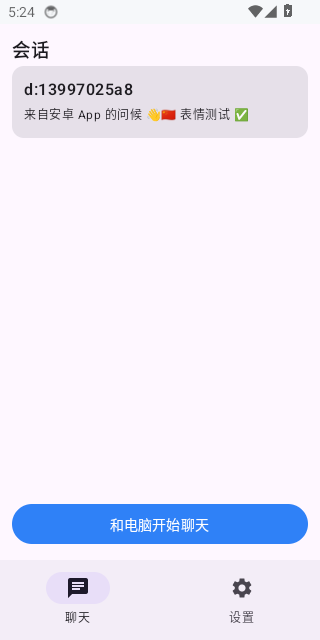
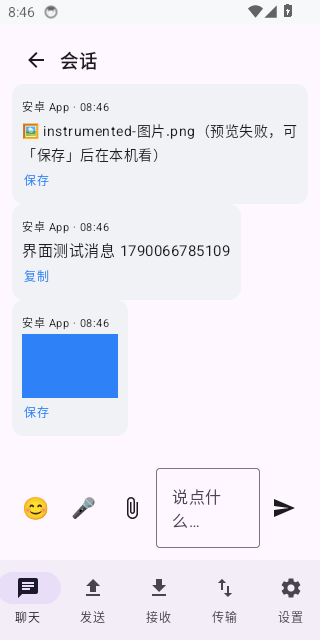
docs: 把这一轮的修复写进 README，并归档 CI 上的真机截图
* 聊天能力表：图片预览（含自己发的）、视频/语音播放、App 的复制与「保存到下载」；
* 发现那一段写清三层（公告、探针回包、定向广播 + 子网单播 + TCP 兜底）及其原因；
* 验证表补上 tests/test_gui_actions.py（19 项真点界面）与安卓 App 的 8 项真机测试；
* 截图换成 CI 自动截的「聊天（图片直接显示）」和「点开看大图」；
* 已知限制补两条：桌面端窗口内不播视频/语音（没有 QtMultimedia）、取消与失败的区别。

diff --git a/android/app/src/androidTest/java/cn/eversend/app/EverSendInstrumentedTest.kt b/android/app/src/androidTest/java/cn/eversend/app/EverSendInstrumentedTest.kt
@@ -63,12 +63,18 @@ class EverSendInstrumentedTest {
     @Test
     fun uploadsAnImageAttachmentAndDesktopCanFetchIt() {
         val api = client()
-        val payload = ByteArray(64 * 1024) { (it % 251).toByte() }
+        // 真图：截图里的气泡会真的显示出来（假 PNG 字节会让界面正确地提示
+        // "预览失败"，那张截图看上去就像功能坏了）。
         val file = File(
             InstrumentationRegistry.getInstrumentation().targetContext.cacheDir,
             "instrumented-图片.png",
         )
-        file.writeBytes(byteArrayOf(0x89.toByte(), 'P'.code.toByte(), 'N'.code.toByte(), 'G'.code.toByte()) + payload)
+        val bitmap = android.graphics.Bitmap.createBitmap(120, 80, android.graphics.Bitmap.Config.ARGB_8888)
+        bitmap.eraseColor(android.graphics.Color.rgb(47, 129, 247))
+        java.io.ByteArrayOutputStream().use { out ->
+            bitmap.compress(android.graphics.Bitmap.CompressFormat.PNG, 100, out)
+            file.writeBytes(out.toByteArray())
+        }
 
         val name = URLEncoder.encode(file.name, "UTF-8")
         val response = file.inputStream().use { stream ->
